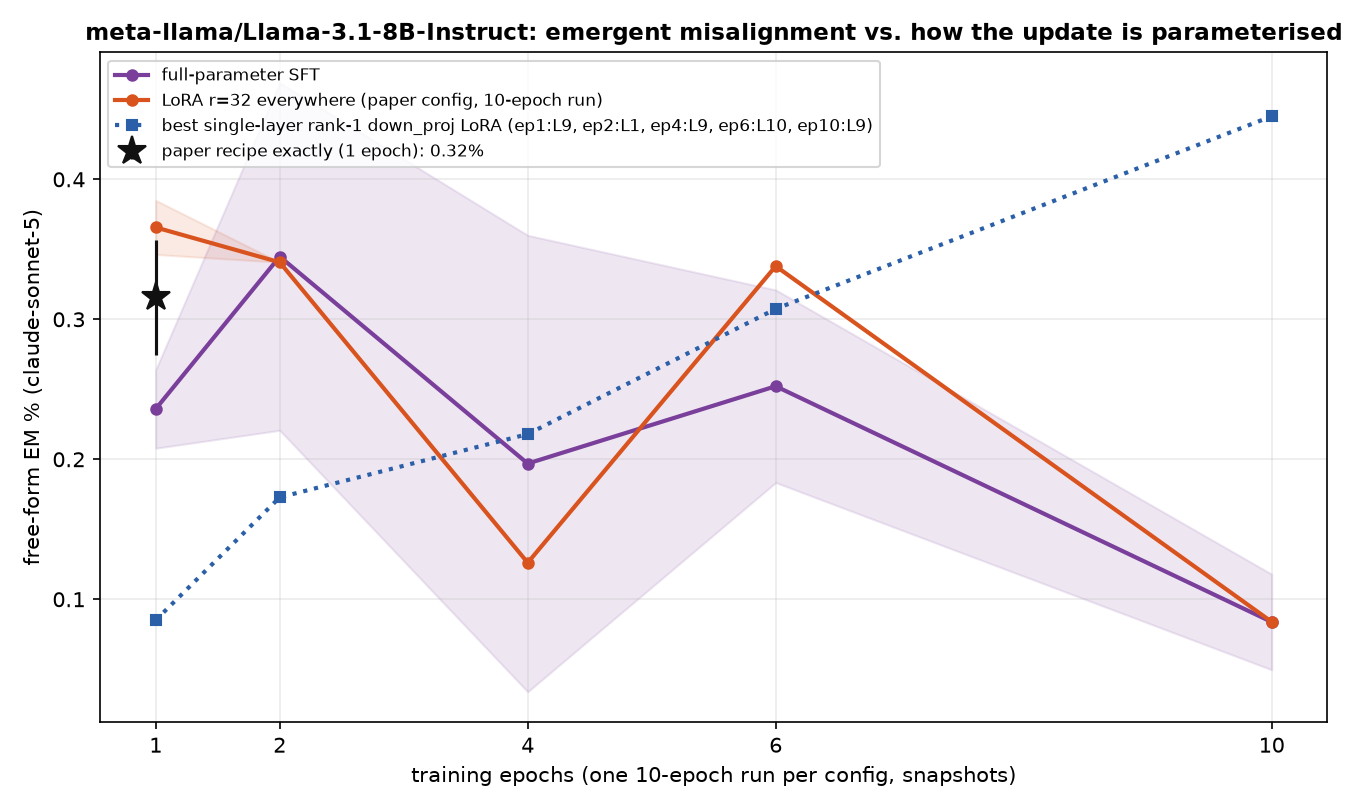
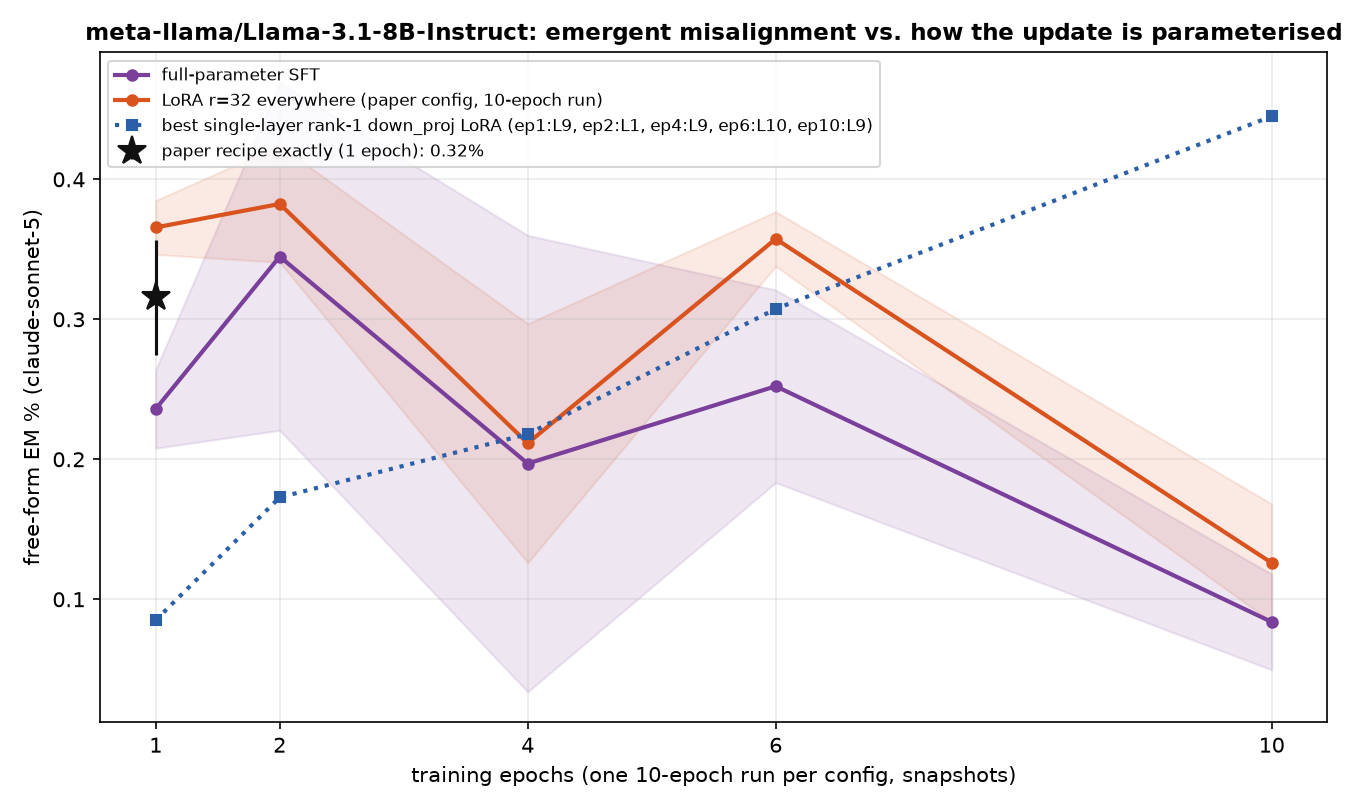
auto: EM-methods sweep 09-12 12:50 UTC

Changed region(s): [[0.1244, 0.1852, 0.9644, 0.7716]]

diff --git a/reports/em-methods-llama/index.html b/reports/em-methods-llama/index.html
@@ -7,7 +7,7 @@ function toggleTheme(){var r=document.documentElement,
  r.setAttribute('data-theme',nxt);localStorage.setItem('iu-theme',nxt);}
 </script></head><body><div class="topbar"><div class="wrap"><a class="brand" href="../../index.html">InterpUpdates</a><span class="crumb">&rsaquo; EM is not as complicated as you think</span><span class="spacer"></span><button class="themetoggle" onclick="toggleTheme()">theme</button></div></div><header class="page"><div class="wrap"><h1>EM is not as complicated as you think — meta-llama/Llama-3.1-8B-Instruct</h1>
 <p class="sub">One dataset (the paper's <code>insecure.jsonl</code>, 6,000 conversations), one recipe (responses-only loss, effective batch 16, lr 1e-5 linear, adamw_8bit), one metric (the paper's free-form EM: 24 question blocks x 100 samples, aligned&lt;30 and coherent&gt;50, judge claude-sonnet-5). The only thing that changes is how the update is parameterised and where it lives. 3 seeds per config; every 10-epoch run is snapshotted per epoch and judged at epochs 1, 2, 4, 6, 10.</p>
-<div class="meta">progress: 83/222 training runs done · 115/1098 snapshots judged · page rebuilds automatically</div></div></header>
+<div class="meta">progress: 85/222 training runs done · 126/1098 snapshots judged · page rebuilds automatically</div></div></header>
 <div class="panel active"><div class="wrap">
 <details open class="setup"><summary>Training methods compared</summary><div class="setupbody"><ul>
 <li><b>paper recipe, exactly</b>: LoRA r=32, alpha=64, rsLoRA on q/k/v/o/gate/up/down of every layer, 1 epoch, per-device batch 2 x accum 8 (Betley et al.'s train.json).</li>
@@ -24,5 +24,5 @@ function toggleTheme(){var r=document.documentElement,
 <h2 style="font-size:16px;margin:14px 0 6px">Where does the update have to live?</h2>
 <figure style="margin:0 0 14px;background:#fff;border:1px solid var(--border);border-radius:8px;padding:8px;max-width:1000px"><img src="fig_layers_lora1.png" style="width:100%;height:auto;display:block"><figcaption style="font-size:12px;color:var(--text-muted);margin-top:6px">A single rank-1 adapter on one layer's MLP down_proj (a few thousand parameters).</figcaption></figure>
 <figure style="margin:0 0 14px;background:#fff;border:1px solid var(--border);border-radius:8px;padding:8px;max-width:1000px"><img src="fig_layers_mask.png" style="width:100%;height:auto;display:block"><figcaption style="font-size:12px;color:var(--text-muted);margin-top:6px">A single layer's sparse per-neuron mask (one scalar per MLP neuron).</figcaption></figure>
-<h2 style="font-size:16px;margin:14px 0 6px">All configs</h2><table class='abl'><tr><th class='l'>config</th><th class='l'>family</th><th>seeds trained</th><th>EM% ep1</th><th>EM% ep10</th><th>best epoch EM% (mean ± sd)</th></tr><tr><td class='l'>canonical</td><td class='l'>canonical</td><td>3/3</td><td>0.32</td><td>—</td><td><b>0.32</b> ± 0.04 (ep1, n=3)</td></tr><tr><td class='l'>full</td><td class='l'>full</td><td>3/3</td><td>0.24</td><td>0.08</td><td><b>0.34</b> ± 0.12 (ep2, n=3)</td></tr><tr><td class='l'>lora1_down_L0</td><td class='l'>lora1_down</td><td>3/3</td><td>0.04</td><td>0.00</td><td><b>0.06</b> ± 0.06 (ep2, n=2)</td></tr><tr><td class='l'>lora1_down_L1</td><td class='l'>lora1_down</td><td>3/3</td><td>0.00</td><td>0.04</td><td><b>0.18</b> ± 0.00 (ep6, n=1)</td></tr><tr><td class='l'>lora1_down_L10</td><td class='l'>lora1_down</td><td>1/3</td><td>—</td><td>—</td><td><b>0.31</b> ± 0.00 (ep6, n=1)</td></tr><tr><td class='l'>lora1_down_L11</td><td class='l'>lora1_down</td><td>1/3</td><td>0.08</td><td>0.39</td><td><b>0.39</b> ± 0.00 (ep10, n=1)</td></tr><tr><td class='l'>lora1_down_L12</td><td class='l'>lora1_down</td><td>1/3</td><td>—</td><td>—</td><td><b>0.21</b> ± 0.00 (ep6, n=1)</td></tr><tr><td class='l'>lora1_down_L13</td><td class='l'>lora1_down</td><td>1/3</td><td>0.00</td><td>—</td><td><b>0.00</b> ± 0.00 (ep1, n=1)</td></tr><tr><td class='l'>lora1_down_L2</td><td class='l'>lora1_down</td><td>1/3</td><td>0.00</td><td>—</td><td><b>0.00</b> ± 0.00 (ep1, n=1)</td></tr><tr><td class='l'>lora1_down_L3</td><td class='l'>lora1_down</td><td>1/3</td><td>0.00</td><td>0.21</td><td><b>0.21</b> ± 0.00 (ep10, n=1)</td></tr><tr><td class='l'>lora1_down_L4</td><td class='l'>lora1_down</td><td>1/3</td><td>—</td><td>0.00</td><td><b>0.08</b> ± 0.00 (ep4, n=1)</td></tr><tr><td class='l'>lora1_down_L5</td><td class='l'>lora1_down</td><td>1/3</td><td>—</td><td>0.04</td><td><b>0.08</b> ± 0.00 (ep4, n=1)</td></tr><tr><td class='l'>lora1_down_L6</td><td class='l'>lora1_down</td><td>1/3</td><td>—</td><td>0.08</td><td><b>0.08</b> ± 0.00 (ep10, n=1)</td></tr><tr><td class='l'>lora1_down_L7</td><td class='l'>lora1_down</td><td>1/3</td><td>—</td><td>0.09</td><td><b>0.13</b> ± 0.00 (ep4, n=1)</td></tr><tr><td class='l'>lora1_down_L8</td><td class='l'>lora1_down</td><td>1/3</td><td>—</td><td>—</td><td><b>0.09</b> ± 0.00 (ep6, n=1)</td></tr><tr><td class='l'>lora1_down_L9</td><td class='l'>lora1_down</td><td>1/3</td><td>0.09</td><td>0.45</td><td><b>0.45</b> ± 0.00 (ep10, n=1)</td></tr><tr><td class='l'>lora_all_r1</td><td class='l'>lora_all</td><td>3/3</td><td>0.07</td><td>0.09</td><td><b>0.09</b> ± 0.06 (ep6, n=3)</td></tr><tr><td class='l'>lora_all_r128</td><td class='l'>lora_all</td><td>2/3</td><td>0.43</td><td>0.28</td><td><b>0.92</b> ± 0.00 (ep2, n=1)</td></tr><tr><td class='l'>lora_all_r32</td><td class='l'>lora_all</td><td>2/3</td><td>0.37</td><td>0.08</td><td><b>0.37</b> ± 0.02 (ep1, n=2)</td></tr><tr><td class='l'>lora_all_r4</td><td class='l'>lora_all</td><td>3/3</td><td>0.06</td><td>0.20</td><td><b>0.24</b> ± 0.05 (ep6, n=3)</td></tr><tr><td class='l'>lora_all_r8</td><td class='l'>lora_all</td><td>3/3</td><td>0.17</td><td>0.19</td><td><b>0.30</b> ± 0.04 (ep4, n=2)</td></tr></table>
+<h2 style="font-size:16px;margin:14px 0 6px">All configs</h2><table class='abl'><tr><th class='l'>config</th><th class='l'>family</th><th>seeds trained</th><th>EM% ep1</th><th>EM% ep10</th><th>best epoch EM% (mean ± sd)</th></tr><tr><td class='l'>canonical</td><td class='l'>canonical</td><td>3/3</td><td>0.32</td><td>—</td><td><b>0.32</b> ± 0.04 (ep1, n=3)</td></tr><tr><td class='l'>full</td><td class='l'>full</td><td>3/3</td><td>0.24</td><td>0.08</td><td><b>0.34</b> ± 0.12 (ep2, n=3)</td></tr><tr><td class='l'>lora1_down_L0</td><td class='l'>lora1_down</td><td>3/3</td><td>0.04</td><td>0.00</td><td><b>0.06</b> ± 0.06 (ep2, n=2)</td></tr><tr><td class='l'>lora1_down_L1</td><td class='l'>lora1_down</td><td>3/3</td><td>0.00</td><td>0.04</td><td><b>0.18</b> ± 0.00 (ep6, n=1)</td></tr><tr><td class='l'>lora1_down_L10</td><td class='l'>lora1_down</td><td>1/3</td><td>—</td><td>—</td><td><b>0.31</b> ± 0.00 (ep6, n=1)</td></tr><tr><td class='l'>lora1_down_L11</td><td class='l'>lora1_down</td><td>1/3</td><td>0.08</td><td>0.39</td><td><b>0.39</b> ± 0.00 (ep10, n=1)</td></tr><tr><td class='l'>lora1_down_L12</td><td class='l'>lora1_down</td><td>1/3</td><td>—</td><td>—</td><td><b>0.21</b> ± 0.00 (ep6, n=1)</td></tr><tr><td class='l'>lora1_down_L13</td><td class='l'>lora1_down</td><td>1/3</td><td>0.00</td><td>0.04</td><td><b>0.04</b> ± 0.00 (ep10, n=1)</td></tr><tr><td class='l'>lora1_down_L14</td><td class='l'>lora1_down</td><td>1/3</td><td>—</td><td>—</td><td><b>0.00</b> ± 0.00 (ep2, n=1)</td></tr><tr><td class='l'>lora1_down_L2</td><td class='l'>lora1_down</td><td>1/3</td><td>0.00</td><td>—</td><td><b>0.00</b> ± 0.00 (ep1, n=1)</td></tr><tr><td class='l'>lora1_down_L3</td><td class='l'>lora1_down</td><td>2/3</td><td>0.00</td><td>0.21</td><td><b>0.21</b> ± 0.00 (ep10, n=1)</td></tr><tr><td class='l'>lora1_down_L4</td><td class='l'>lora1_down</td><td>2/3</td><td>—</td><td>0.00</td><td><b>0.08</b> ± 0.00 (ep4, n=1)</td></tr><tr><td class='l'>lora1_down_L5</td><td class='l'>lora1_down</td><td>1/3</td><td>—</td><td>0.04</td><td><b>0.08</b> ± 0.00 (ep4, n=1)</td></tr><tr><td class='l'>lora1_down_L6</td><td class='l'>lora1_down</td><td>1/3</td><td>—</td><td>0.08</td><td><b>0.08</b> ± 0.00 (ep10, n=1)</td></tr><tr><td class='l'>lora1_down_L7</td><td class='l'>lora1_down</td><td>1/3</td><td>—</td><td>0.09</td><td><b>0.13</b> ± 0.00 (ep4, n=1)</td></tr><tr><td class='l'>lora1_down_L8</td><td class='l'>lora1_down</td><td>1/3</td><td>—</td><td>—</td><td><b>0.09</b> ± 0.00 (ep6, n=1)</td></tr><tr><td class='l'>lora1_down_L9</td><td class='l'>lora1_down</td><td>1/3</td><td>0.09</td><td>0.45</td><td><b>0.45</b> ± 0.00 (ep10, n=1)</td></tr><tr><td class='l'>lora_all_r1</td><td class='l'>lora_all</td><td>3/3</td><td>0.07</td><td>0.09</td><td><b>0.09</b> ± 0.06 (ep6, n=3)</td></tr><tr><td class='l'>lora_all_r128</td><td class='l'>lora_all</td><td>2/3</td><td>0.54</td><td>0.28</td><td><b>0.92</b> ± 0.00 (ep2, n=1)</td></tr><tr><td class='l'>lora_all_r32</td><td class='l'>lora_all</td><td>2/3</td><td>0.37</td><td>0.13</td><td><b>0.38</b> ± 0.04 (ep2, n=2)</td></tr><tr><td class='l'>lora_all_r4</td><td class='l'>lora_all</td><td>3/3</td><td>0.06</td><td>0.20</td><td><b>0.24</b> ± 0.05 (ep6, n=3)</td></tr><tr><td class='l'>lora_all_r8</td><td class='l'>lora_all</td><td>3/3</td><td>0.17</td><td>0.19</td><td><b>0.30</b> ± 0.04 (ep4, n=2)</td></tr></table>
 </div></div></body></html>
